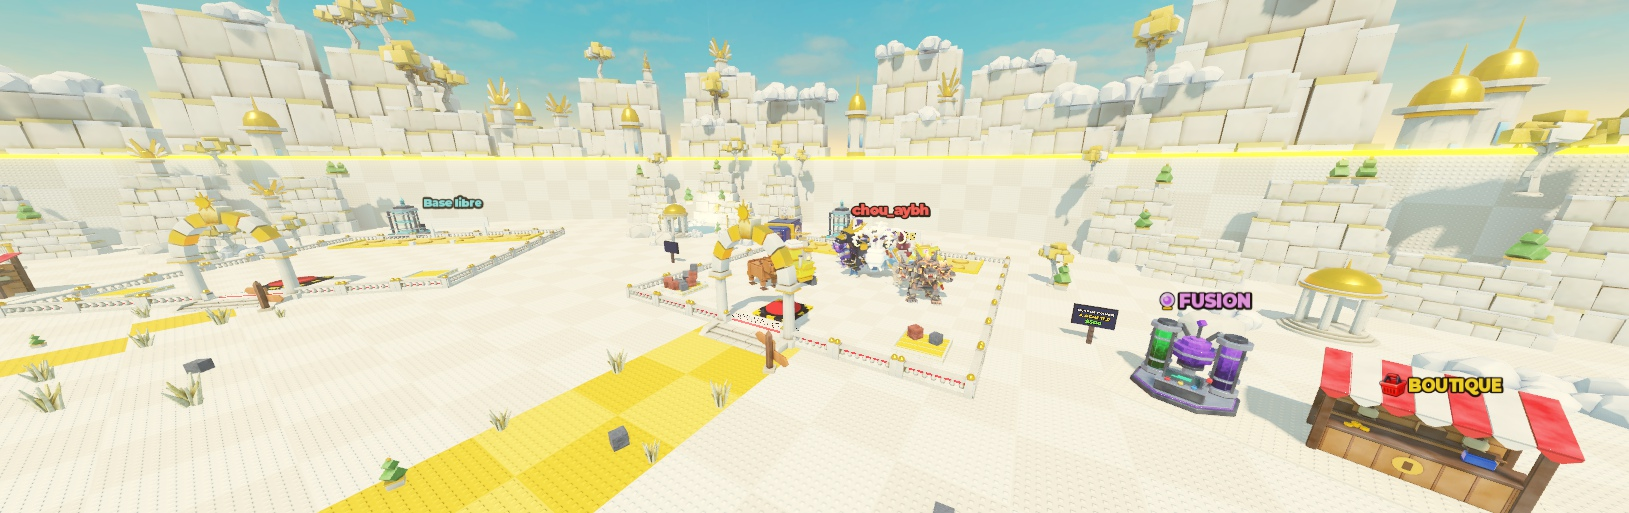
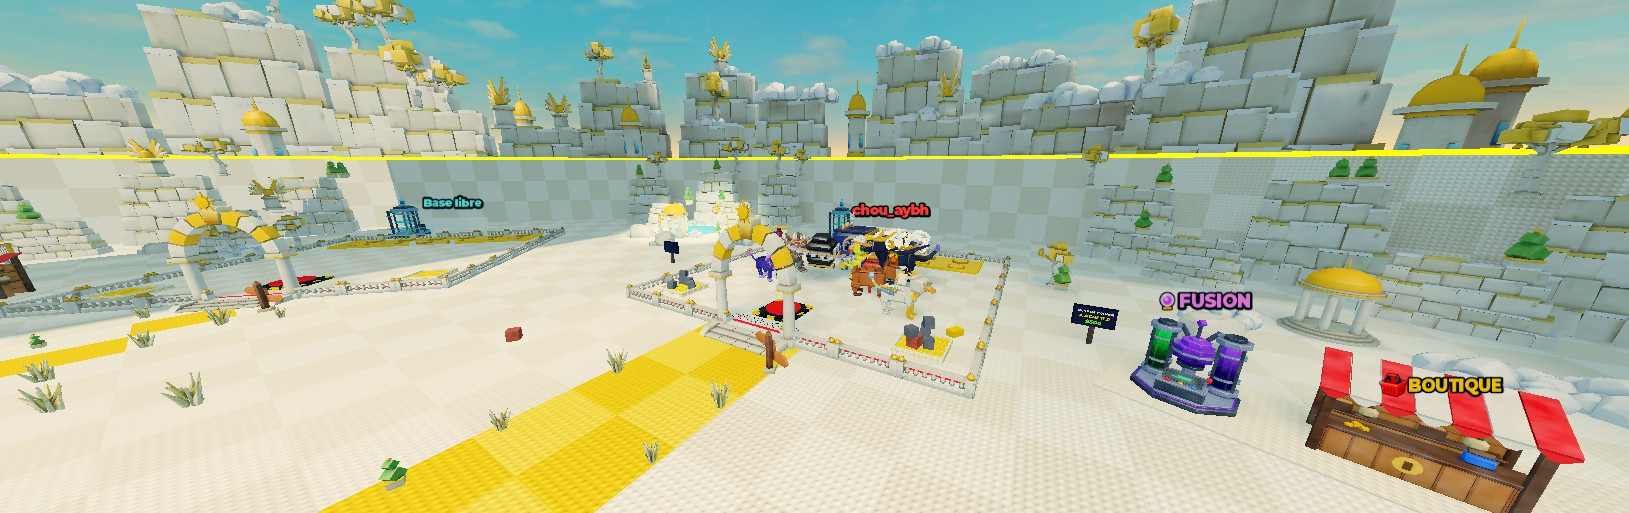
feat: air du Divin réglé (saturation 0,26, exposition -0,2 et brume 1,6 le jour), vérifié en Play

diff --git a/dataset_and_pipeline/MAP.md b/dataset_and_pipeline/MAP.md
@@ -341,6 +341,10 @@ Céleste, Griffon Doré, Titan Auréole, Gardien du Trou Noir) : une cité de ma
 - Vérifié en Play (solo, monde changé côté client) : au Divin, seuls les décors du Divin visibles (596 pièces, les 6
   autres mondes cachés), 19 lumières allumées (aucune des autres mondes), DivinLook visible et les 6 autres habillages
   cachés ; retour en Prairie : tout s'éteint et se cache. Photos `qa_renders/map_roblox_divin_jour.jpg`,
-  `map_roblox_divin_nuit.jpg`, `map_roblox_divin_source.jpg`. En jeu le jour est très blanc (air du monde : saturation
-  0,1 dans `shared/Worlds`) : lisible, mais peu de contraste entre le marbre et le sol.
+  `map_roblox_divin_nuit.jpg`, `map_roblox_divin_source.jpg` (reprises après le réglage de l'air ci-dessous).
+- Air du Divin réglé (`shared/Worlds`, accord de Chouaib) : le jour était très blanc, le marbre se confondait avec le
+  sol. Saturation 0,1 -> 0,26, teinte un peu plus dorée (255, 242, 220) ; le jour, exposition -0,2 et brume 2 -> 1,6
+  (`Sky.Day`). Vérifié en Play : au Divin saturation 0,26, exposition -0,2 et brume 1,6 le jour ; falaises de marbre
+  qui retrouvent leur volume, damier lisible, ciel plus bleu, or plus vif ; retour en Prairie : exposition 0,05,
+  saturation 0,18 et brume 0,6 reprises.
 - **Les 7 mondes ont maintenant leur habillage « niveau studio » dans le jeu.**
